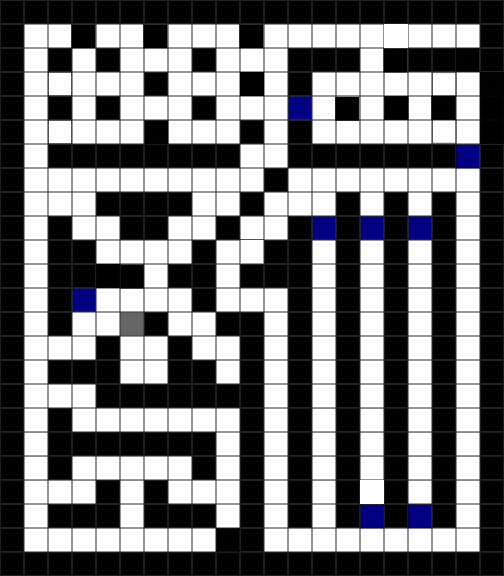
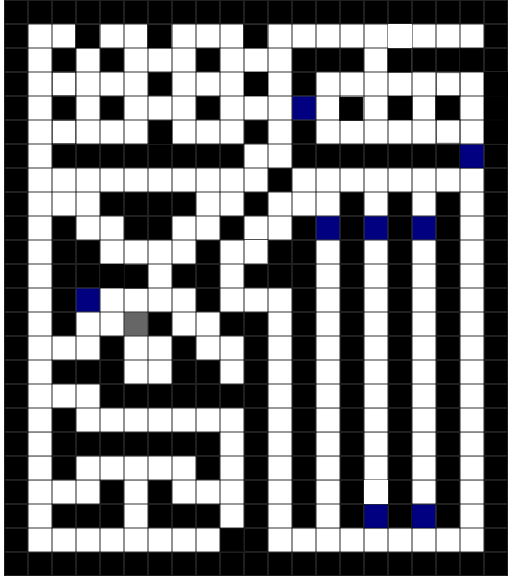
Mapa UI

diff --git a/src/vista/PantallaNivel.java b/src/vista/PantallaNivel.java
@@ -48,9 +48,8 @@ public class PantallaNivel extends JPanel implements State {
 		panelMapa = new JLayeredPane();
 		panelMapa.setBorder(new LineBorder(new Color(0, 0, 0)));
 		panelMapa.setBounds(10, 10, 504, 576);
-		panel.add(panelMapa);
 		
-		miPartida=new Partida(this, fabrica);
+		panel.add(panelMapa);
 		panelMapa.setLayout(null);
 		
 		lblsVida=new JLabel[3];
@@ -122,6 +121,8 @@ public class PantallaNivel extends JPanel implements State {
 		lblsVida[0]=lblVida;
 		lblsVida[1]=lblVida_1;
 		lblsVida[2]=lblVida_2;
+		
+		miPartida=new Partida(this, fabrica);
 	}
 	
 	public void seApretoDerecha() {
@@ -163,15 +164,16 @@ public class PantallaNivel extends JPanel implements State {
 	
 	public void imprimirMapa(Iterable<EntidadGrafica> it, String mapa) {		
 		JLabel lblMapa = new JLabel(reEscalar(mapa));
+
+		lblMapa.setSize(504, 576);
+		
+		panelMapa.add(lblMapa, 0);
+		panelMapa.setLayer(lblMapa, 0);
 		
 		for(EntidadGrafica e:it) { 
 			panelMapa.add(e.getLbl(), e.getPriority());
 			panelMapa.setLayer(e.getLbl(), e.getPriority());
 		}
-		
-		panelMapa.add(lblMapa, 0);
-		panelMapa.setLayer(lblMapa, 0, 0);
-		
 	}
 	
 	public JPanel getPanel() {
@@ -192,7 +194,7 @@ public class PantallaNivel extends JPanel implements State {
 	
 	private ImageIcon reEscalar(String dirImg) {
         ImageIcon img = new ImageIcon(EntidadGrafica.class.getResource(dirImg));
-        Image imgResized = img.getImage().getScaledInstance(panelMapa.getHeight(), panelMapa.getWidth(), Image.SCALE_SMOOTH);
+        Image imgResized = img.getImage().getScaledInstance(504, 576, Image.SCALE_SMOOTH);
         return new ImageIcon(imgResized);
     }
 }

diff --git a/src/logica/fabricas/FabricaOverworld.java b/src/logica/fabricas/FabricaOverworld.java
@@ -152,21 +152,21 @@ public class FabricaOverworld implements FabricaElementos{
 	 * Metodo que devuelve la imagen de fondo para el nivel1
 	 */
 	public String getLevel1Layout() {
-		return "/recursos/imagenes/Map.png";
+		return "../../recursos/imagenes/Map.png";
 	}
 	
 	/**
 	 * Metodo que devuelve la imagen de fondo para el nivel2
 	 */
 	public String getLevel2Layout() {
-		return "/recursos/imagenes/nivel2.png";
+		return "../../recursos/imagenes/nivel2.png";
 	}
 	
 	/**
 	 * Metodo que devuelve la imagen de fondo para el nivel3
 	 */
 	public String getLevel3Layout() {
-		return "/recursos/imagenes/MapaPlantillaN3.png";
+		return "../../recursos/imagenes/MapaPlantillaN3.png";
 	}
 	
 	
